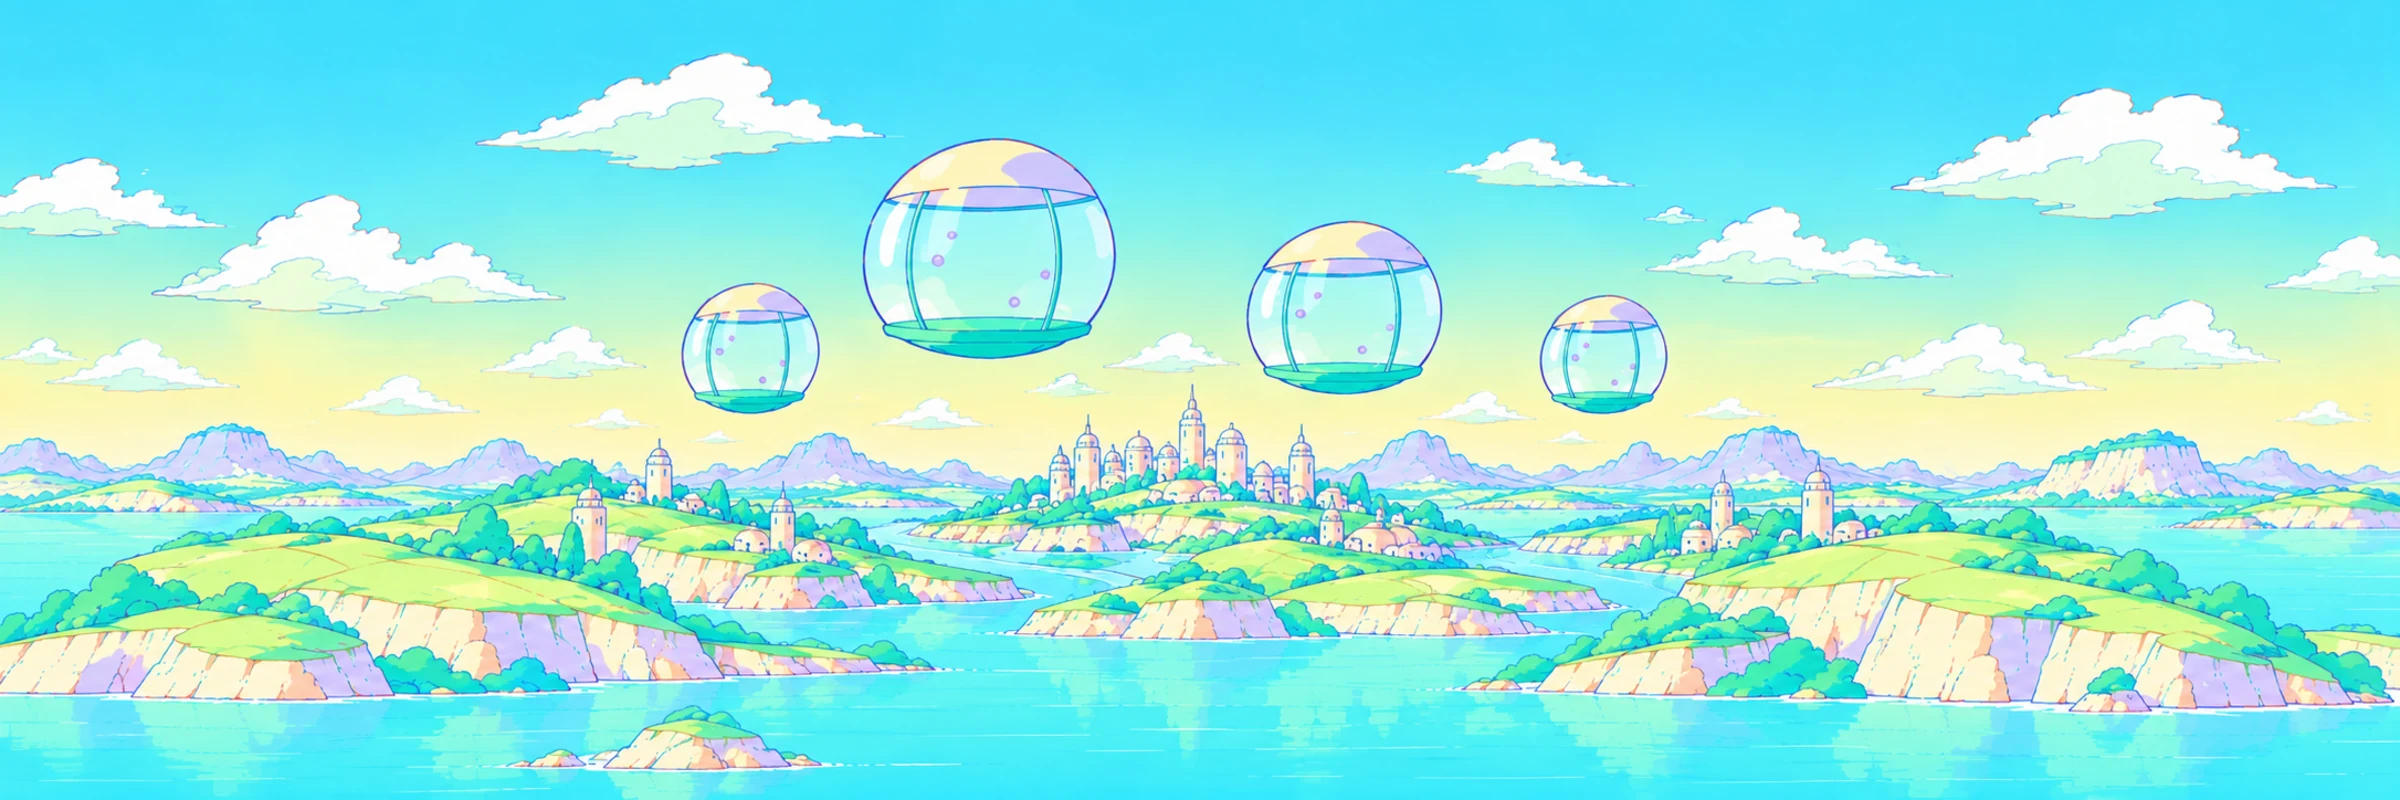
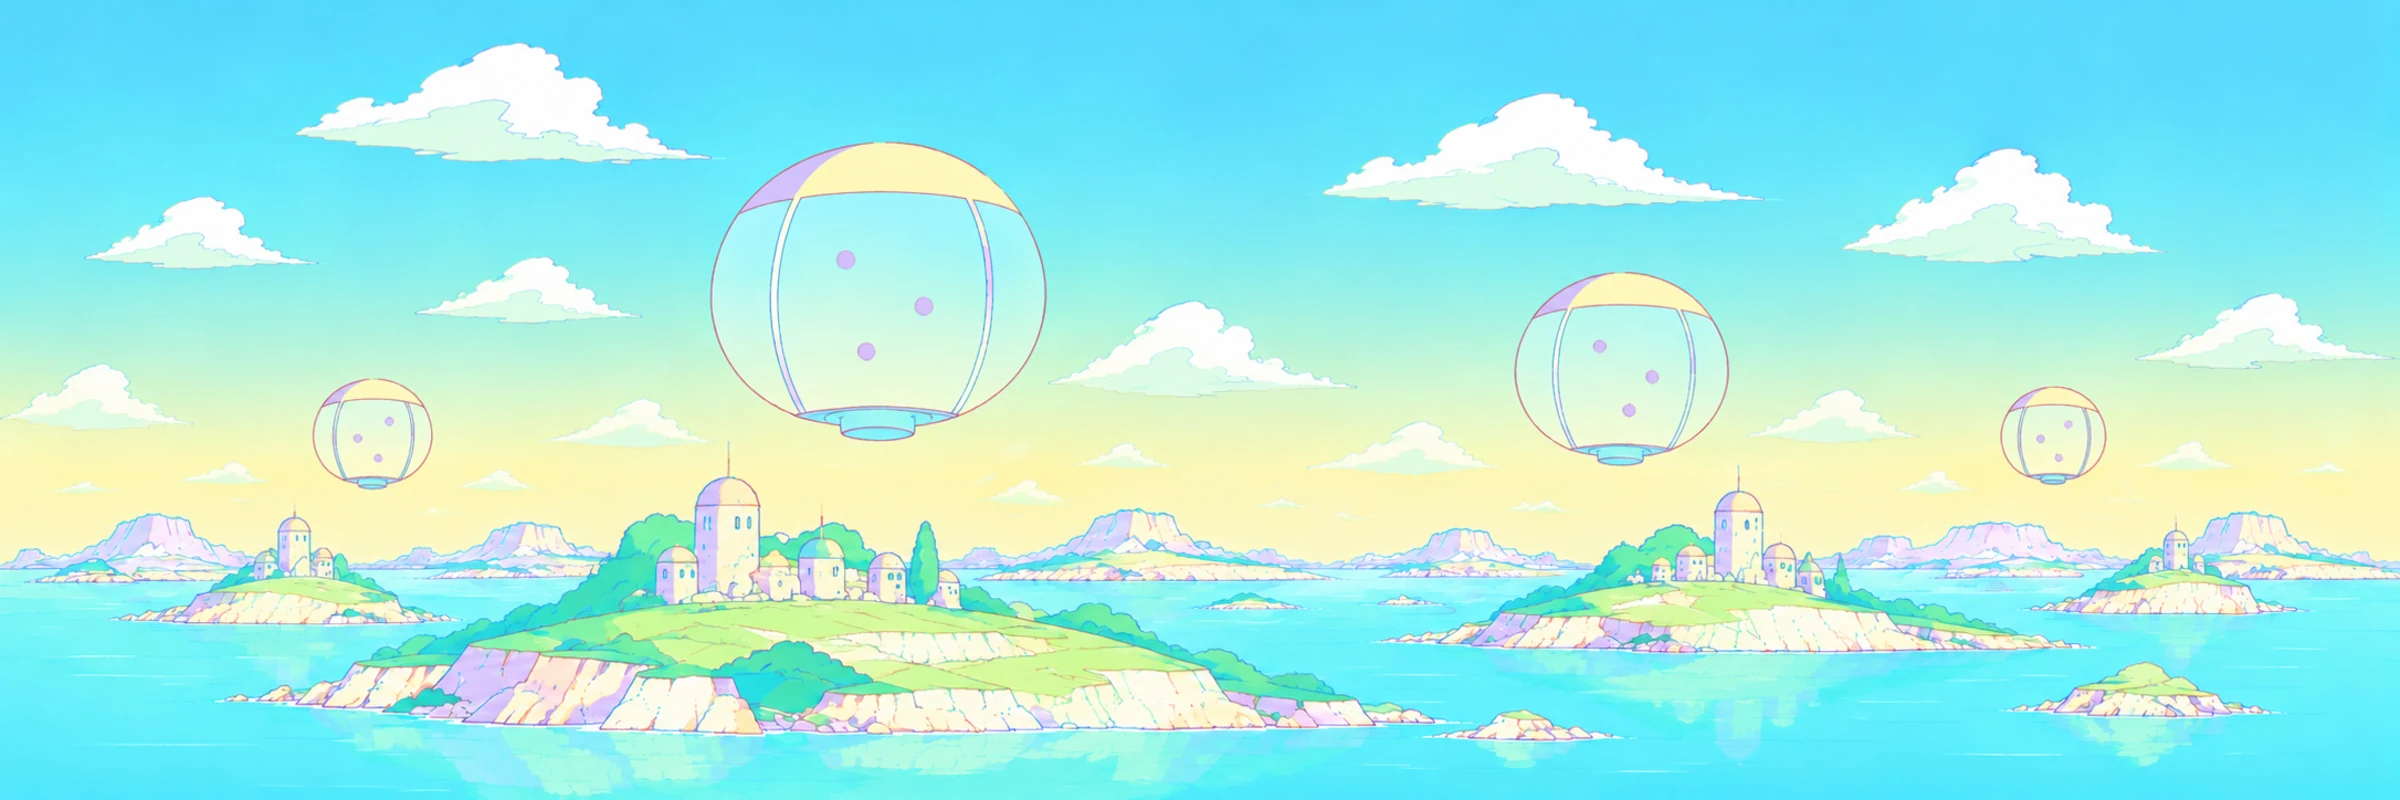
LOCAL: service cards v2 art; immune range moved to the left half (big capsule + city)

diff --git a/site/business.html b/site/business.html
@@ -19,7 +19,7 @@
 <link rel="preconnect" href="https://fonts.googleapis.com">
 <link rel="preconnect" href="https://fonts.gstatic.com" crossorigin>
 <link rel="stylesheet" href="https://fonts.googleapis.com/css2?family=Noto+Sans+JP:wght@400;500&amp;family=Noto+Serif+JP:wght@500;600&amp;display=swap">
-<link rel="stylesheet" href="styles.css?v=1792829851">
+<link rel="stylesheet" href="styles.css?v=1792830192">
 <script>document.documentElement.classList.add('js')</script>
 
 </head>
@@ -36,9 +36,9 @@
 <div class="hero-bg"><img src="images/hero65_business.webp?v=17" alt="" width="2600" height="400" style="object-position:50% 50%;--mpos:55% 50%"></div>
 <div class="container" data-en="BUSINESS"><p class="eyebrow">BUSINESS</p><h1>事業内容</h1><nav class="breadcrumb" aria-label="パンくず"><a href="index.html">TOP</a> &gt; BUSINESS</nav></div>
 </section>
-<main id="main"><section class="section"><div class="container"><div class="section-head reveal"><p class="eyebrow">FIELDS</p><h2 class="section-title">取り組んでいる再生医療</h2><p class="lead">細胞の力を活かした、3つの領域で医療を提供しています。</p></div><article class="service-detail reveal" id="stem"><div class="sd-media"><img src="images/cellact_stem.webp?v=5" alt="" loading="lazy" width="1500" height="857" data-pan></div>
-<div class="sd-text"><p class="eyebrow" style="color:var(--peach-deep)">STEM CELL TREATMENT</p><h2>幹細胞療法</h2><p class="sd-lead">ご自身の幹細胞を用いた再生医療により、損傷した組織の修復・再生を促します。</p><p>幹細胞は、さまざまな細胞に変化する力と、自らを複製する力をもつ細胞です。この性質を医療に活かし、加齢や損傷によって傷んだ組織の回復を支えることを目指します。</p><p>治療に用いる細胞は、徹底した品質管理のもとで培養します。一人ひとりの状態やご希望を伺い、診察のうえで治療計画をご提案します。</p><dl class="sd-points"><div><dt>どんな治療か</dt><dd>ご自身の細胞を用いる再生医療です。</dd></div><div><dt>特徴</dt><dd>細胞の品質と、それを支える技術の信頼性を重視しています。</dd></div><div><dt>安全への取り組み</dt><dd>再生医療等安全性確保法を遵守し、安全かつ高度な実践に努めています。</dd></div></dl></div></article><article class="service-detail reveal" id="immune"><div class="sd-media"><img src="images/cellact_immune.webp?v=4" alt="" loading="lazy" width="1500" height="857" data-pan></div>
-<div class="sd-text"><p class="eyebrow" style="color:var(--peach-deep)">IMMUNE CELL TREATMENT</p><h2>免疫細胞療法</h2><p class="sd-lead">患者様自身の免疫細胞を活性化させ、体の自然治癒力を高める治療法です。</p><p>免疫細胞は、体を守る仕組みの中心を担う細胞です。ご自身の免疫細胞を体の外で培養・活性化させ、その働きを高めることを目指します。</p><p>培養は、品質管理の行き届いた環境で行います。治療の適応や進め方は、診察のうえで、医師が個別にご説明します。</p><dl class="sd-points"><div><dt>どんな治療か</dt><dd>ご自身の免疫細胞を活用する再生医療です。</dd></div><div><dt>特徴</dt><dd>一人ひとりの状態に合わせて、治療計画を設計します。</dd></div><div><dt>安全への取り組み</dt><dd>細胞の品質管理と、法令の遵守を徹底しています。</dd></div></dl></div></article><article class="service-detail reveal" id="super"><div class="sd-media"><img src="images/cellact_super.webp?v=6" alt="" loading="lazy" width="1500" height="857" data-pan></div>
+<main id="main"><section class="section"><div class="container"><div class="section-head reveal"><p class="eyebrow">FIELDS</p><h2 class="section-title">取り組んでいる再生医療</h2><p class="lead">細胞の力を活かした、3つの領域で医療を提供しています。</p></div><article class="service-detail reveal" id="stem"><div class="sd-media"><img src="images/cellact_stem.webp?v=6" alt="" loading="lazy" width="1500" height="857" data-pan></div>
+<div class="sd-text"><p class="eyebrow" style="color:var(--peach-deep)">STEM CELL TREATMENT</p><h2>幹細胞療法</h2><p class="sd-lead">ご自身の幹細胞を用いた再生医療により、損傷した組織の修復・再生を促します。</p><p>幹細胞は、さまざまな細胞に変化する力と、自らを複製する力をもつ細胞です。この性質を医療に活かし、加齢や損傷によって傷んだ組織の回復を支えることを目指します。</p><p>治療に用いる細胞は、徹底した品質管理のもとで培養します。一人ひとりの状態やご希望を伺い、診察のうえで治療計画をご提案します。</p><dl class="sd-points"><div><dt>どんな治療か</dt><dd>ご自身の細胞を用いる再生医療です。</dd></div><div><dt>特徴</dt><dd>細胞の品質と、それを支える技術の信頼性を重視しています。</dd></div><div><dt>安全への取り組み</dt><dd>再生医療等安全性確保法を遵守し、安全かつ高度な実践に努めています。</dd></div></dl></div></article><article class="service-detail reveal" id="immune"><div class="sd-media"><img src="images/cellact_immune.webp?v=5" alt="" loading="lazy" width="1500" height="857" data-pan></div>
+<div class="sd-text"><p class="eyebrow" style="color:var(--peach-deep)">IMMUNE CELL TREATMENT</p><h2>免疫細胞療法</h2><p class="sd-lead">患者様自身の免疫細胞を活性化させ、体の自然治癒力を高める治療法です。</p><p>免疫細胞は、体を守る仕組みの中心を担う細胞です。ご自身の免疫細胞を体の外で培養・活性化させ、その働きを高めることを目指します。</p><p>培養は、品質管理の行き届いた環境で行います。治療の適応や進め方は、診察のうえで、医師が個別にご説明します。</p><dl class="sd-points"><div><dt>どんな治療か</dt><dd>ご自身の免疫細胞を活用する再生医療です。</dd></div><div><dt>特徴</dt><dd>一人ひとりの状態に合わせて、治療計画を設計します。</dd></div><div><dt>安全への取り組み</dt><dd>細胞の品質管理と、法令の遵守を徹底しています。</dd></div></dl></div></article><article class="service-detail reveal" id="super"><div class="sd-media"><img src="images/cellact_super.webp?v=7" alt="" loading="lazy" width="1500" height="857" data-pan></div>
 <div class="sd-text"><p class="eyebrow" style="color:var(--peach-deep)">STEMCELL SUPERNATANT</p><h2>幹細胞培養上清療法</h2><p class="sd-lead">細胞間の情報伝達を担うサイトカインが豊富な培養上清で、細胞本来の活性をサポートします。</p><p>幹細胞培養上清とは、幹細胞を培養する過程で、培養液に分泌される成分を取り出したものです。細胞間の情報伝達を担うサイトカインが豊富に含まれています。</p><p>高品質な培養上清を用いることで、機能が低下した細胞に働きかけ、本来の活性をサポートします。当院の培養上清は、クリーンな環境下で製造され、ウイルス検査などの安全管理を徹底したサイトカイン成分です。</p><dl class="sd-points"><div><dt>どんな治療か</dt><dd>幹細胞の培養上清に含まれる成分を用いる治療です。</dd></div><div><dt>特徴</dt><dd>細胞間の情報伝達を担うサイトカインが豊富に含まれます。</dd></div><div><dt>安全への取り組み</dt><dd>クリーンな環境での製造と、ウイルス検査などの安全管理を徹底しています。</dd></div></dl></div></article><p class="sd-note reveal">※ 治療の内容・期間・リスク・費用などについては、診察時に医師が個別にご説明します。治療の経過や感じ方には、個人差があります。</p></div></section>
 <section class="section tint"><div class="container safety-grid"><figure class="safety-photo reveal"><img src="images/photo_ope.webp" alt="クリニックの処置室" loading="lazy" width="1536" height="1024"></figure><div><div class="section-head reveal"><p class="eyebrow">SAFETY</p><h2 class="section-title">安全への姿勢</h2></div>
 <div class="reveal"><p>日本では、2014年に再生医療等安全性確保法が施行され、再生医療には厳格な規制のもとでの実施が求められています。私たちはこの法律を遵守し、安全かつ高度な再生医療の実践に努めています。</p>
@@ -70,6 +70,6 @@
 <div class="copy"><span>&copy; 2026 一般社団法人 CELLACT. All rights reserved.</span></div>
 </div>
 </footer>
-<script src="script.js?v=1792829851" defer></script>
+<script src="script.js?v=1792830192" defer></script>
 </body>
 </html>

diff --git a/site/index.html b/site/index.html
@@ -19,7 +19,7 @@
 <link rel="preconnect" href="https://fonts.googleapis.com">
 <link rel="preconnect" href="https://fonts.gstatic.com" crossorigin>
 <link rel="stylesheet" href="https://fonts.googleapis.com/css2?family=Noto+Sans+JP:wght@400;500&amp;family=Noto+Serif+JP:wght@500;600&amp;display=swap">
-<link rel="stylesheet" href="styles.css?v=1792829851">
+<link rel="stylesheet" href="styles.css?v=1792830192">
 <script>document.documentElement.classList.add('js')</script>
 <script type="application/ld+json">{"@context":"https://schema.org","@type":"Organization","name":"一般社団法人 CELLACT","url":"https://n2cellact.or.jp/","logo":"https://n2cellact.or.jp/images/cellact_logo.png?v=151","telephone":"+81-3-3289-0202","email":"info@cellact.org","address":{"@type":"PostalAddress","postalCode":"104-0061","addressRegion":"東京都","addressLocality":"中央区","streetAddress":"銀座6-6-5 HULIC & New GINZA NAMIKI6 11F","addressCountry":"JP"}}</script>
 </head>
@@ -56,11 +56,11 @@
 <section class="section tint" id="business"><div class="container">
 <div class="section-head center reveal"><p class="eyebrow">BUSINESS</p><h2 class="section-title">事業内容</h2><p class="lead">細胞の力を活かした3つの再生医療に取り組んでいます。</p></div>
 <div class="service-list"><article class="service-card reveal"><a href="business.html#stem" style="text-decoration:none;color:inherit;display:flex;flex-direction:column;flex:1">
-<div class="thumb"><img src="images/cellact_stem.webp?v=5" alt="" loading="lazy" width="1500" height="857" data-pan></div>
+<div class="thumb"><img src="images/cellact_stem.webp?v=6" alt="" loading="lazy" width="1500" height="857" data-pan></div>
 <div class="body"><span class="en">STEM CELL TREATMENT</span><h3>幹細胞療法</h3><p>自己の幹細胞を用いた再生医療により、損傷した組織の修復・再生を促します。</p><span class="more" style="color:var(--teal-deep)">詳しく見る</span></div></a></article><article class="service-card reveal"><a href="business.html#immune" style="text-decoration:none;color:inherit;display:flex;flex-direction:column;flex:1">
-<div class="thumb"><img src="images/cellact_immune.webp?v=4" alt="" loading="lazy" width="1500" height="857" data-pan></div>
+<div class="thumb"><img src="images/cellact_immune.webp?v=5" alt="" loading="lazy" width="1500" height="857" data-pan></div>
 <div class="body"><span class="en">IMMUNE CELL TREATMENT</span><h3>免疫細胞療法</h3><p>患者様自身の免疫細胞を活性化させ、体の自然治癒力を高める治療法です。</p><span class="more" style="color:var(--teal-deep)">詳しく見る</span></div></a></article><article class="service-card reveal"><a href="business.html#super" style="text-decoration:none;color:inherit;display:flex;flex-direction:column;flex:1">
-<div class="thumb"><img src="images/cellact_super.webp?v=6" alt="" loading="lazy" width="1500" height="857" data-pan></div>
+<div class="thumb"><img src="images/cellact_super.webp?v=7" alt="" loading="lazy" width="1500" height="857" data-pan></div>
 <div class="body"><span class="en">STEMCELL SUPERNATANT</span><h3>幹細胞培養上清療法</h3><p>細胞間の情報伝達を担うサイトカインが豊富な培養上清で、細胞本来の活性をサポートします。</p><span class="more" style="color:var(--teal-deep)">詳しく見る</span></div></a></article></div>
 <p style="text-align:center;margin-top:40px"><a class="btn btn-line" href="business.html">事業内容の詳細 <span class="arrow" aria-hidden="true">→</span></a></p>
 </div></section>
@@ -96,6 +96,6 @@
 <div class="copy"><span>&copy; 2026 一般社団法人 CELLACT. All rights reserved.</span></div>
 </div>
 </footer>
-<script src="script.js?v=1792829851" defer></script>
+<script src="script.js?v=1792830192" defer></script>
 </body>
 </html>

diff --git a/site/script.js b/site/script.js
@@ -630,7 +630,7 @@
     // the immune-cell card begins on its signature view (capsules over the city = middle of the strip); each card restarts there when it first scrolls into view
     var src = im.getAttribute('src') || '', onTop = !!im.closest('.service-card'), bizImmune = !onTop && /immune/.test(src);   // tuned speeds / ranges: TOP cards, and the immune picture on the business page
     var tuned = onTop || /super/.test(src);   // the supernatant picture moves exactly like its TOP card on the business page too
-    var rng = bizImmune ? [0.35, 0.85] : !tuned ? null : /immune/.test(src) ? [0.25, 0.75] : /super/.test(src) ? [0.5, 1] : [0.2, 0.7];
+    var rng = bizImmune ? [0.08, 0.55] : !tuned ? null : /immune/.test(src) ? [0.05, 0.5] : /super/.test(src) ? [0.5, 1] : [0.2, 0.7];
     var cardPeriod = bizImmune ? 220 : !tuned ? 120 : innerWidth <= 820 ? (/stem/.test(src) ? 130 : 180) : 120;
     var off = bizImmune ? cardPeriod * 0.15 : tuned ? cardPeriod * (/super/.test(src) ? 0.4 : 0.25) : i * 37;   // these begin on their motif (inside their range)
     glide(im, im.parentNode, { prop: 'transform', period: function () { return cardPeriod; }, offset: off, swell: 0, swells: 1, range: rng });

diff --git a/site/404.html b/site/404.html
@@ -19,7 +19,7 @@
 <link rel="preconnect" href="https://fonts.googleapis.com">
 <link rel="preconnect" href="https://fonts.gstatic.com" crossorigin>
 <link rel="stylesheet" href="https://fonts.googleapis.com/css2?family=Noto+Sans+JP:wght@400;500&amp;family=Noto+Serif+JP:wght@500;600&amp;display=swap">
-<link rel="stylesheet" href="styles.css?v=1792829851">
+<link rel="stylesheet" href="styles.css?v=1792830192">
 <script>document.documentElement.classList.add('js')</script>
 
 </head>
@@ -47,6 +47,6 @@
 <div class="copy"><span>&copy; 2026 一般社団法人 CELLACT. All rights reserved.</span></div>
 </div>
 </footer>
-<script src="script.js?v=1792829851" defer></script>
+<script src="script.js?v=1792830192" defer></script>
 </body>
 </html>

diff --git a/site/company.html b/site/company.html
@@ -19,7 +19,7 @@
 <link rel="preconnect" href="https://fonts.googleapis.com">
 <link rel="preconnect" href="https://fonts.gstatic.com" crossorigin>
 <link rel="stylesheet" href="https://fonts.googleapis.com/css2?family=Noto+Sans+JP:wght@400;500&amp;family=Noto+Serif+JP:wght@500;600&amp;display=swap">
-<link rel="stylesheet" href="styles.css?v=1792829851">
+<link rel="stylesheet" href="styles.css?v=1792830192">
 <script>document.documentElement.classList.add('js')</script>
 
 </head>
@@ -74,6 +74,6 @@
 <div class="copy"><span>&copy; 2026 一般社団法人 CELLACT. All rights reserved.</span></div>
 </div>
 </footer>
-<script src="script.js?v=1792829851" defer></script>
+<script src="script.js?v=1792830192" defer></script>
 </body>
 </html>

diff --git a/site/contact_thanks.html b/site/contact_thanks.html
@@ -19,7 +19,7 @@
 <link rel="preconnect" href="https://fonts.googleapis.com">
 <link rel="preconnect" href="https://fonts.gstatic.com" crossorigin>
 <link rel="stylesheet" href="https://fonts.googleapis.com/css2?family=Noto+Sans+JP:wght@400;500&amp;family=Noto+Serif+JP:wght@500;600&amp;display=swap">
-<link rel="stylesheet" href="styles.css?v=1792829851">
+<link rel="stylesheet" href="styles.css?v=1792830192">
 <script>document.documentElement.classList.add('js')</script>
 
 </head>
@@ -54,6 +54,6 @@
 <div class="copy"><span>&copy; 2026 一般社団法人 CELLACT. All rights reserved.</span></div>
 </div>
 </footer>
-<script src="script.js?v=1792829851" defer></script>
+<script src="script.js?v=1792830192" defer></script>
 </body>
 </html>

diff --git a/site/news-20270101-rename.html b/site/news-20270101-rename.html
@@ -19,7 +19,7 @@
 <link rel="preconnect" href="https://fonts.googleapis.com">
 <link rel="preconnect" href="https://fonts.gstatic.com" crossorigin>
 <link rel="stylesheet" href="https://fonts.googleapis.com/css2?family=Noto+Sans+JP:wght@400;500&amp;family=Noto+Serif+JP:wght@500;600&amp;display=swap">
-<link rel="stylesheet" href="styles.css?v=1792829851">
+<link rel="stylesheet" href="styles.css?v=1792830192">
 <script>document.documentElement.classList.add('js')</script>
 
 </head>
@@ -58,6 +58,6 @@
 <div class="copy"><span>&copy; 2026 一般社団法人 CELLACT. All rights reserved.</span></div>
 </div>
 </footer>
-<script src="script.js?v=1792829851" defer></script>
+<script src="script.js?v=1792830192" defer></script>
 </body>
 </html>

diff --git a/site/news-20270101-renewal.html b/site/news-20270101-renewal.html
@@ -19,7 +19,7 @@
 <link rel="preconnect" href="https://fonts.googleapis.com">
 <link rel="preconnect" href="https://fonts.gstatic.com" crossorigin>
 <link rel="stylesheet" href="https://fonts.googleapis.com/css2?family=Noto+Sans+JP:wght@400;500&amp;family=Noto+Serif+JP:wght@500;600&amp;display=swap">
-<link rel="stylesheet" href="styles.css?v=1792829851">
+<link rel="stylesheet" href="styles.css?v=1792830192">
 <script>document.documentElement.classList.add('js')</script>
 
 </head>
@@ -57,6 +57,6 @@
 <div class="copy"><span>&copy; 2026 一般社団法人 CELLACT. All rights reserved.</span></div>
 </div>
 </footer>
-<script src="script.js?v=1792829851" defer></script>
+<script src="script.js?v=1792830192" defer></script>
 </body>
 </html>

diff --git a/site/news-20270110-recruit.html b/site/news-20270110-recruit.html
@@ -19,7 +19,7 @@
 <link rel="preconnect" href="https://fonts.googleapis.com">
 <link rel="preconnect" href="https://fonts.gstatic.com" crossorigin>
 <link rel="stylesheet" href="https://fonts.googleapis.com/css2?family=Noto+Sans+JP:wght@400;500&amp;family=Noto+Serif+JP:wght@500;600&amp;display=swap">
-<link rel="stylesheet" href="styles.css?v=1792829851">
+<link rel="stylesheet" href="styles.css?v=1792830192">
 <script>document.documentElement.classList.add('js')</script>
 
 </head>
@@ -57,6 +57,6 @@
 <div class="copy"><span>&copy; 2026 一般社団法人 CELLACT. All rights reserved.</span></div>
 </div>
 </footer>
-<script src="script.js?v=1792829851" defer></script>
+<script src="script.js?v=1792830192" defer></script>
 </body>
 </html>

diff --git a/site/news-archive.html b/site/news-archive.html
@@ -19,7 +19,7 @@
 <link rel="preconnect" href="https://fonts.googleapis.com">
 <link rel="preconnect" href="https://fonts.gstatic.com" crossorigin>
 <link rel="stylesheet" href="https://fonts.googleapis.com/css2?family=Noto+Sans+JP:wght@400;500&amp;family=Noto+Serif+JP:wght@500;600&amp;display=swap">
-<link rel="stylesheet" href="styles.css?v=1792829851">
+<link rel="stylesheet" href="styles.css?v=1792830192">
 <script>document.documentElement.classList.add('js')</script>
 
 </head>
@@ -49,6 +49,6 @@
 <div class="copy"><span>&copy; 2026 一般社団法人 CELLACT. All rights reserved.</span></div>
 </div>
 </footer>
-<script src="script.js?v=1792829851" defer></script>
+<script src="script.js?v=1792830192" defer></script>
 </body>
 </html>

diff --git a/site/privacy.html b/site/privacy.html
@@ -19,7 +19,7 @@
 <link rel="preconnect" href="https://fonts.googleapis.com">
 <link rel="preconnect" href="https://fonts.gstatic.com" crossorigin>
 <link rel="stylesheet" href="https://fonts.googleapis.com/css2?family=Noto+Sans+JP:wght@400;500&amp;family=Noto+Serif+JP:wght@500;600&amp;display=swap">
-<link rel="stylesheet" href="styles.css?v=1792829851">
+<link rel="stylesheet" href="styles.css?v=1792830192">
 <script>document.documentElement.classList.add('js')</script>
 
 </head>
@@ -71,6 +71,6 @@
 <div class="copy"><span>&copy; 2026 一般社団法人 CELLACT. All rights reserved.</span></div>
 </div>
 </footer>
-<script src="script.js?v=1792829851" defer></script>
+<script src="script.js?v=1792830192" defer></script>
 </body>
 </html>

diff --git a/site/recruit.html b/site/recruit.html
@@ -19,7 +19,7 @@
 <link rel="preconnect" href="https://fonts.googleapis.com">
 <link rel="preconnect" href="https://fonts.gstatic.com" crossorigin>
 <link rel="stylesheet" href="https://fonts.googleapis.com/css2?family=Noto+Sans+JP:wght@400;500&amp;family=Noto+Serif+JP:wght@500;600&amp;display=swap">
-<link rel="stylesheet" href="styles.css?v=1792829851">
+<link rel="stylesheet" href="styles.css?v=1792830192">
 <script>document.documentElement.classList.add('js')</script>
 
 </head>
@@ -55,6 +55,6 @@
 <div class="copy"><span>&copy; 2026 一般社団法人 CELLACT. All rights reserved.</span></div>
 </div>
 </footer>
-<script src="script.js?v=1792829851" defer></script>
+<script src="script.js?v=1792830192" defer></script>
 </body>
 </html>
